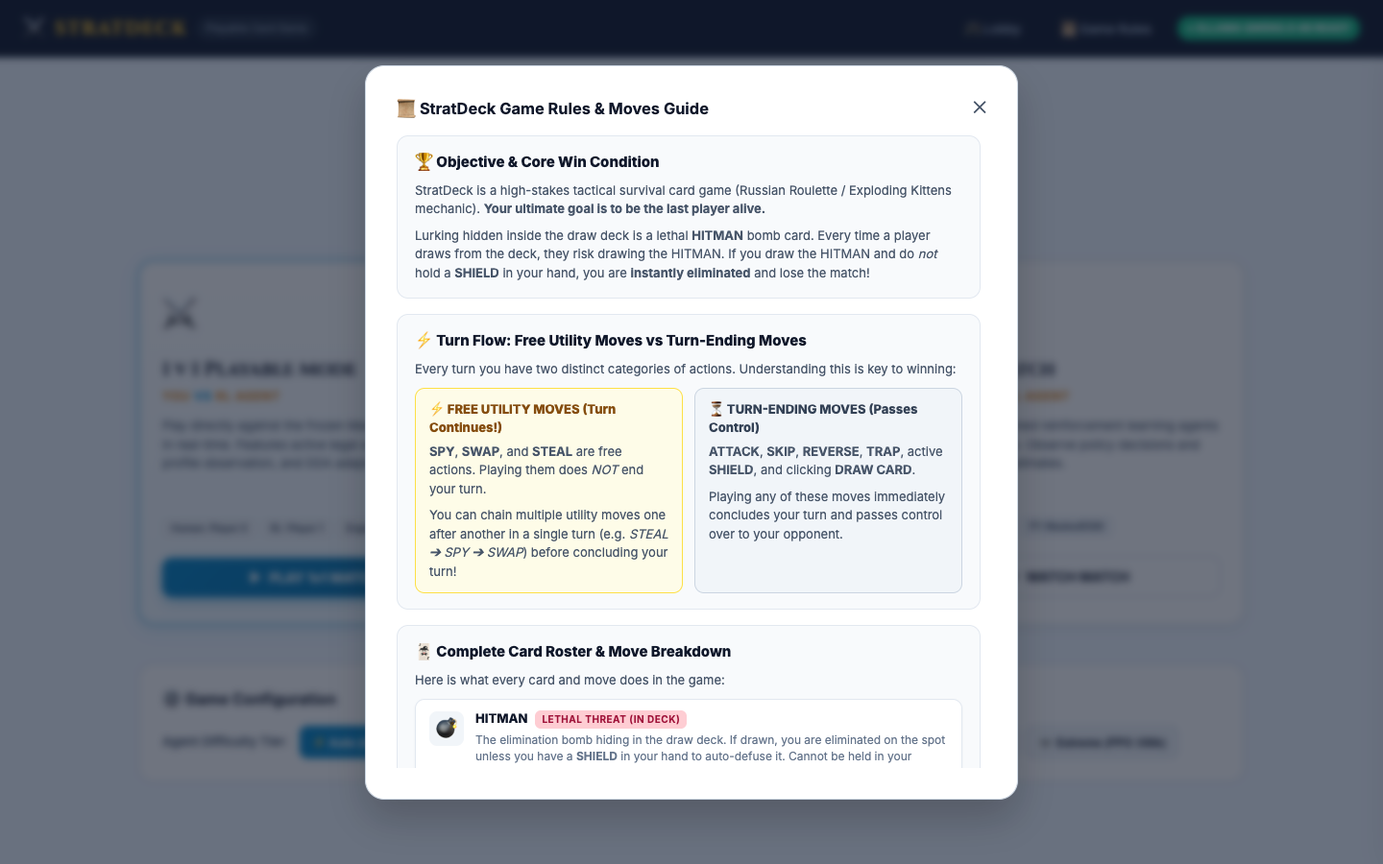
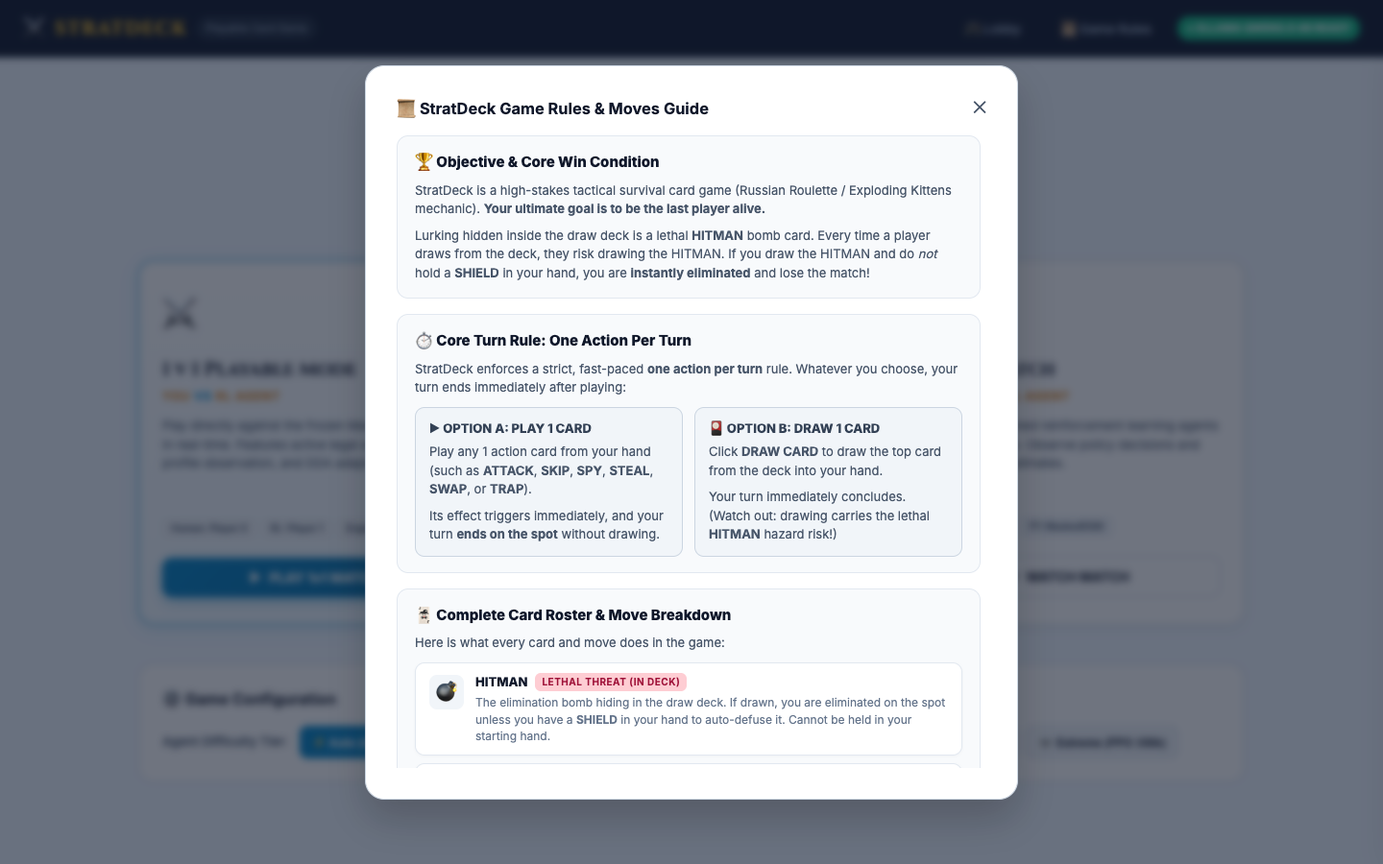
refactor(ui): enforce strict one-card-per-turn rule and remove multi-move utility labels

Changed region(s): [[0.2812, 0.3733, 0.6875, 0.9022]]

diff --git a/ui/static/app.js b/ui/static/app.js
@@ -14,7 +14,7 @@ const CARD_INFO = {
     "SHIELD":  { icon: "🛡", type: "Defensive",   desc: "Auto-defuse: Protects against drawing a lethal HITMAN card" },
     "SKIP":    { icon: "⏭", type: "Tactical",    desc: "Pass turn immediately to next player without drawing" },
     "REVERSE": { icon: "🔄", type: "Tactical",    desc: "Reverse turn direction (acts as Skip in 2-player match)" },
-    "SPY":     { icon: "👁", type: "Information", desc: "Peek top 3 deck cards without ending your turn" },
+    "SPY":     { icon: "👁", type: "Information", desc: "Peek top 3 deck cards to inspect upcoming danger" },
     "SWAP":    { icon: "🔀", type: "Disruptive",  desc: "Swap a random card from your hand with opponent" },
     "TRAP":    { icon: "🪤", type: "Disruptive",  desc: "Set forced double draw on opponent on next draw" },
     "STEAL":   { icon: "💰", type: "Disruptive",  desc: "Steal 1 random card directly from opponent's hand" },
@@ -30,13 +30,13 @@ const TUTORIAL_STEPS = [
         badge: "Step 1 of 4: Survival Objective",
         title: "🎯 Objective: Outsurvive the Lethal HITMAN",
         text: "StratDeck is a survival card game modeled after Russian Roulette and Exploding Kittens. In the deck is 1 lethal <strong>HITMAN</strong> card. If you draw it without holding a <strong>SHIELD</strong>, you lose! You start with 1 SHIELD and 4 random cards. Every turn ends with a draw unless you play an action card.",
-        hint: "💡 <strong>Coach Recommendation:</strong> You have the first turn! Try playing a Utility card like <strong>SPY</strong>, or click <strong>DRAW CARD</strong> to end your turn."
+        hint: "💡 <strong>Coach Recommendation:</strong> You have the first turn! Choose 1 card to play, or click <strong>DRAW CARD</strong> to conclude your turn."
     },
     {
-        badge: "Step 2 of 4: Multi-Action Combos",
-        title: "⚡ Utility Cards Do NOT End Your Turn",
-        text: "Cards like <strong>SPY</strong>, <strong>SWAP</strong>, and <strong>STEAL</strong> are Utility cards. When you play them, your turn continues! You can chain multiple utility moves (e.g. peek with SPY, then steal with STEAL) before finally drawing or attacking.",
-        hint: "💡 <strong>Coach Recommendation:</strong> Both you and the AI have this multi-move superpower! Use it to gather intel and disrupt the opponent before drawing."
+        badge: "Step 2 of 4: Turn Rule",
+        title: "⏱ Strict Turn Rule: One Action Per Turn",
+        text: "On your turn, you take exactly <strong>ONE action</strong>: either play 1 card from your hand, OR draw 1 card from the deck. Whatever you choose, your turn immediately ends and passes to the opponent.",
+        hint: "💡 <strong>Coach Recommendation:</strong> Choose your single card wisely each turn to maintain hand advantage and avoid hazards!"
     },
     {
         badge: "Step 3 of 4: Offense & Turn Flow",
@@ -79,19 +79,19 @@ const TUTORIAL_CARD_EXPLANATIONS = {
         hint: "💡 <strong>Coach Strategy:</strong> Acts as an extra SKIP card in 1v1 matches."
     },
     "SPY": {
-        title: "👁 SPY — Information Utility (Turn Continues!)",
-        text: "Peeks at the top 3 cards of the draw deck in exact order. <strong>Crucial:</strong> SPY is a Utility card and does NOT end your turn! You can play another card right after.",
-        hint: "💡 <strong>Coach Strategy:</strong> Always play SPY first to see if a HITMAN is on top before you decide whether to DRAW or ATTACK!"
+        title: "👁 SPY — Tactical Information",
+        text: "Peeks at the top 3 cards of the draw deck in exact sequential order. Gives you certainty on whether the HITMAN is approaching, then ends your turn without drawing.",
+        hint: "💡 <strong>Coach Strategy:</strong> Play SPY to detect upcoming hazard cards before your opponent draws."
     },
     "SWAP": {
-        title: "🔀 SWAP — Disruptive Card Exchange (Turn Continues!)",
-        text: "Exchanges a random card from your hand with a random card from the opponent. <strong>Crucial:</strong> SWAP is a Utility card and does NOT end your turn!",
-        hint: "💡 <strong>Coach Strategy:</strong> Use SWAP to disrupt opponent strategy or fish for a SHIELD from their hand."
+        title: "🔀 SWAP — Disruptive Card Exchange",
+        text: "Exchanges a random card from your hand with a random card from the opponent, then ends your turn without drawing.",
+        hint: "💡 <strong>Coach Strategy:</strong> Use SWAP to disrupt opponent strategy or attempt to retrieve a SHIELD."
     },
     "STEAL": {
-        title: "💰 STEAL — Direct Hand Theft (Turn Continues!)",
-        text: "Steals 1 random card directly out of the opponent's hand and adds it to yours! <strong>Crucial:</strong> STEAL is a Utility card and does NOT end your turn.",
-        hint: "💡 <strong>Coach Strategy:</strong> Reduces opponent options while increasing yours. Great when opponent has few cards."
+        title: "💰 STEAL — Direct Hand Theft",
+        text: "Steals 1 random card directly out of the opponent's hand and adds it to yours, then ends your turn without drawing.",
+        hint: "💡 <strong>Coach Strategy:</strong> Reduces opponent options while expanding yours. Excellent when opponent hoards cards."
     },
     "TRAP": {
         title: "🪤 TRAP — Forced Double-Draw Hazard",
@@ -644,16 +644,12 @@ function renderGameState(state) {
             bannerText.innerText = state.winner === 0 ? "GAME ENDED — YOU WIN! 🏆" : "GAME ENDED — RL AGENT WON 💀";
         } else if (isHumanTurn) {
             banner.className = "turn-banner your-turn";
-            const hasUtil = (state.human_hand || []).some(c => c === "SPY" || c === "SWAP" || c === "STEAL");
-            const utilHint = hasUtil ? '<span style="color: #92400e; font-weight: 700; margin-left: 6px;">[⚡ You have FREE Utility moves!]</span>' : '';
-            if (seqList.length > 1) {
-                bannerText.innerHTML = `YOUR TURN <span class="ai-last-tag">(RL Agent completed ${seqList.length} moves)</span> ${utilHint}`;
-            } else if (latestAI) {
+            if (latestAI) {
                 const aiName = latestAI.action;
                 const info = CARD_INFO[aiName] || { icon: "🤖" };
-                bannerText.innerHTML = `YOUR TURN <span class="ai-last-tag">(RL Agent played ${info.icon} ${aiName})</span> ${utilHint}`;
+                bannerText.innerHTML = `YOUR TURN <span class="ai-last-tag">(RL Agent played ${info.icon} ${aiName})</span> — Choose 1 card or DRAW`;
             } else {
-                bannerText.innerHTML = `YOUR TURN ${utilHint || '— Play a card or click DRAW CARD to end turn'}`;
+                bannerText.innerHTML = `YOUR TURN — Play 1 card or click DRAW CARD to end turn`;
             }
         } else {
             banner.className = "turn-banner ai-turn";
@@ -661,8 +657,9 @@ function renderGameState(state) {
         }
     }
 
-    // 3. MULTI-ACTION ROUND SEQUENCE TRAY
-    renderAIActionSequenceTray(seqList);
+    // 3. MULTI-ACTION ROUND SEQUENCE TRAY (HIDDEN FOR STRICT 1-ACTION-PER-TURN)
+    const seqTray = document.getElementById("aiActionSequenceTray");
+    if (seqTray) seqTray.style.display = "none";
 
     // 4. AI HERO PLAYED CARD SLOT (CENTER BOARD WITH CARD DROP ANIMATION)
     const heroCard = document.getElementById("aiPlayedHeroCard");
@@ -905,7 +902,6 @@ function renderHumanHand(state) {
         const isLegal = mask[cardActionIdx] === 1 || mask[cardActionIdx] === true;
         const info = CARD_INFO[cardName] || { icon: "🃏", type: "Action", desc: cardName };
 
-        const isUtility = (cardName === "SPY" || cardName === "SWAP" || cardName === "STEAL");
         let tagText, tagClass;
         if (isWatch) {
             tagText = '👁 In Hand';
@@ -913,19 +909,16 @@ function renderHumanHand(state) {
         } else if (!isLegal) {
             tagText = '✕ Masked';
             tagClass = 'masked-tag';
-        } else if (isUtility) {
-            tagText = '⚡ FREE MOVE (Turn Continues)';
-            tagClass = 'utility-tag';
         } else {
-            tagText = '⏳ ENDS TURN';
-            tagClass = 'ends-turn-tag';
+            tagText = '▶ PLAY CARD';
+            tagClass = 'legal-tag';
         }
 
         const cardEl = document.createElement("div");
         if (isWatch) {
             cardEl.className = `playing-card card-${cardName} spectator-card`;
         } else {
-            cardEl.className = `playing-card card-${cardName} ${isLegal ? 'legal' : 'masked'} ${isUtility ? 'utility-card-border' : ''}`;
+            cardEl.className = `playing-card card-${cardName} ${isLegal ? 'legal' : 'masked'}`;
         }
 
         cardEl.innerHTML = `

diff --git a/index.html b/index.html
@@ -195,17 +195,6 @@
                     <span id="oppPlayedText" class="opp-banner-text">Match started. You have the first turn! Choose a card from your hand.</span>
                 </div>
 
-                <!-- MULTI-ACTION ROUND SEQUENCE TRAY -->
-                <div id="aiActionSequenceTray" class="ai-sequence-tray hidden">
-                    <div class="sequence-tray-header">
-                        <span class="tray-icon">🤖</span>
-                        <span class="tray-title">RL AGENT MOVE SEQUENCE THIS ROUND</span>
-                    </div>
-                    <div id="aiActionSequenceCards" class="sequence-cards-grid">
-                        <!-- Dynamic cards dropped in order with Step 1, Step 2, Step 3 badges -->
-                    </div>
-                </div>
-
                 <!-- CENTER MAT: DECK, AI HERO PLAYED CARD, DISCARD -->
                 <div class="center-table-mat">
 
@@ -625,18 +614,18 @@
 
                     <!-- SECTION 2: TURN MECHANICS -->
                     <div class="rules-section-box">
-                        <h4>⚡ Turn Flow: Free Utility Moves vs Turn-Ending Moves</h4>
-                        <p>Every turn you have two distinct categories of actions. Understanding this is key to winning:</p>
+                        <h4>⏱ Core Turn Rule: One Action Per Turn</h4>
+                        <p>StratDeck enforces a strict, fast-paced <strong>one action per turn</strong> rule. Whatever you choose, your turn ends immediately after playing:</p>
                         <div class="rules-turn-types-grid">
-                            <div class="rules-type-pill-box free-type">
-                                <div class="rules-type-title">⚡ FREE UTILITY MOVES (Turn Continues!)</div>
-                                <p><strong>SPY</strong>, <strong>SWAP</strong>, and <strong>STEAL</strong> are free actions. Playing them does <em>NOT</em> end your turn.</p>
-                                <p>You can chain multiple utility moves one after another in a single turn (e.g. <em>STEAL ➔ SPY ➔ SWAP</em>) before concluding your turn!</p>
+                            <div class="rules-type-pill-box ends-type">
+                                <div class="rules-type-title">▶ OPTION A: PLAY 1 CARD</div>
+                                <p>Play any 1 action card from your hand (such as <strong>ATTACK</strong>, <strong>SKIP</strong>, <strong>SPY</strong>, <strong>STEAL</strong>, <strong>SWAP</strong>, or <strong>TRAP</strong>).</p>
+                                <p>Its effect triggers immediately, and your turn <strong>ends on the spot</strong> without drawing.</p>
                             </div>
                             <div class="rules-type-pill-box ends-type">
-                                <div class="rules-type-title">⏳ TURN-ENDING MOVES (Passes Control)</div>
-                                <p><strong>ATTACK</strong>, <strong>SKIP</strong>, <strong>REVERSE</strong>, <strong>TRAP</strong>, active <strong>SHIELD</strong>, and clicking <strong>DRAW CARD</strong>.</p>
-                                <p>Playing any of these moves immediately concludes your turn and passes control over to your opponent.</p>
+                                <div class="rules-type-title">🎴 OPTION B: DRAW 1 CARD</div>
+                                <p>Click <strong>DRAW CARD</strong> to draw the top card from the deck into your hand.</p>
+                                <p>Your turn immediately concludes. (Watch out: drawing carries the lethal <strong>HITMAN</strong> hazard risk!)</p>
                             </div>
                         </div>
                     </div>
@@ -724,9 +713,9 @@
                                 <div class="rules-card-info">
                                     <div class="rules-card-header">
                                         <span class="rules-card-name">SPY</span>
-                                        <span class="rules-tag util">⚡ Free Move (Turn Continues)</span>
+                                        <span class="rules-tag info-tag">Tactical • Information</span>
                                     </div>
-                                    <div class="rules-card-desc">Peeks at the top 3 cards of the draw deck in exact sequential order. Your turn continues! Gives you 100% certainty on whether it is safe to draw or necessary to attack/skip.</div>
+                                    <div class="rules-card-desc">Peeks at the top 3 cards of the draw deck in exact sequential order, then ends your turn without drawing. Gives you certainty on whether the HITMAN is lurking near the top.</div>
                                 </div>
                             </div>
 
@@ -736,9 +725,9 @@
                                 <div class="rules-card-info">
                                     <div class="rules-card-header">
                                         <span class="rules-card-name">STEAL</span>
-                                        <span class="rules-tag util">⚡ Free Move (Turn Continues)</span>
+                                        <span class="rules-tag info-tag">Tactical • Resource Theft</span>
                                     </div>
-                                    <div class="rules-card-desc">Steals 1 random card directly from your opponent's hand into yours. Your turn continues! Deprives the opponent of their shields and offensive cards while expanding your hand.</div>
+                                    <div class="rules-card-desc">Steals 1 random card directly from your opponent's hand into yours, then ends your turn without drawing. Deprives the opponent of their shields while expanding your hand.</div>
                                 </div>
                             </div>
 
@@ -748,9 +737,9 @@
                                 <div class="rules-card-info">
                                     <div class="rules-card-header">
                                         <span class="rules-card-name">SWAP</span>
-                                        <span class="rules-tag util">⚡ Free Move (Turn Continues)</span>
+                                        <span class="rules-tag info-tag">Tactical • Exchange</span>
                                     </div>
-                                    <div class="rules-card-desc">Trades 1 random card from your hand with 1 random card from your opponent's hand. Your turn continues! Great for dumping low-priority cards in search of shields or attacks.</div>
+                                    <div class="rules-card-desc">Trades 1 random card from your hand with 1 random card from your opponent's hand, then ends your turn without drawing. Great for disrupting the opponent's strategy.</div>
                                 </div>
                             </div>
 

diff --git a/ui/templates/index.html b/ui/templates/index.html
@@ -195,17 +195,6 @@
                     <span id="oppPlayedText" class="opp-banner-text">Match started. You have the first turn! Choose a card from your hand.</span>
                 </div>
 
-                <!-- MULTI-ACTION ROUND SEQUENCE TRAY -->
-                <div id="aiActionSequenceTray" class="ai-sequence-tray hidden">
-                    <div class="sequence-tray-header">
-                        <span class="tray-icon">🤖</span>
-                        <span class="tray-title">RL AGENT MOVE SEQUENCE THIS ROUND</span>
-                    </div>
-                    <div id="aiActionSequenceCards" class="sequence-cards-grid">
-                        <!-- Dynamic cards dropped in order with Step 1, Step 2, Step 3 badges -->
-                    </div>
-                </div>
-
                 <!-- CENTER MAT: DECK, AI HERO PLAYED CARD, DISCARD -->
                 <div class="center-table-mat">
 
@@ -625,18 +614,18 @@
 
                     <!-- SECTION 2: TURN MECHANICS -->
                     <div class="rules-section-box">
-                        <h4>⚡ Turn Flow: Free Utility Moves vs Turn-Ending Moves</h4>
-                        <p>Every turn you have two distinct categories of actions. Understanding this is key to winning:</p>
+                        <h4>⏱ Core Turn Rule: One Action Per Turn</h4>
+                        <p>StratDeck enforces a strict, fast-paced <strong>one action per turn</strong> rule. Whatever you choose, your turn ends immediately after playing:</p>
                         <div class="rules-turn-types-grid">
-                            <div class="rules-type-pill-box free-type">
-                                <div class="rules-type-title">⚡ FREE UTILITY MOVES (Turn Continues!)</div>
-                                <p><strong>SPY</strong>, <strong>SWAP</strong>, and <strong>STEAL</strong> are free actions. Playing them does <em>NOT</em> end your turn.</p>
-                                <p>You can chain multiple utility moves one after another in a single turn (e.g. <em>STEAL ➔ SPY ➔ SWAP</em>) before concluding your turn!</p>
+                            <div class="rules-type-pill-box ends-type">
+                                <div class="rules-type-title">▶ OPTION A: PLAY 1 CARD</div>
+                                <p>Play any 1 action card from your hand (such as <strong>ATTACK</strong>, <strong>SKIP</strong>, <strong>SPY</strong>, <strong>STEAL</strong>, <strong>SWAP</strong>, or <strong>TRAP</strong>).</p>
+                                <p>Its effect triggers immediately, and your turn <strong>ends on the spot</strong> without drawing.</p>
                             </div>
                             <div class="rules-type-pill-box ends-type">
-                                <div class="rules-type-title">⏳ TURN-ENDING MOVES (Passes Control)</div>
-                                <p><strong>ATTACK</strong>, <strong>SKIP</strong>, <strong>REVERSE</strong>, <strong>TRAP</strong>, active <strong>SHIELD</strong>, and clicking <strong>DRAW CARD</strong>.</p>
-                                <p>Playing any of these moves immediately concludes your turn and passes control over to your opponent.</p>
+                                <div class="rules-type-title">🎴 OPTION B: DRAW 1 CARD</div>
+                                <p>Click <strong>DRAW CARD</strong> to draw the top card from the deck into your hand.</p>
+                                <p>Your turn immediately concludes. (Watch out: drawing carries the lethal <strong>HITMAN</strong> hazard risk!)</p>
                             </div>
                         </div>
                     </div>
@@ -724,9 +713,9 @@
                                 <div class="rules-card-info">
                                     <div class="rules-card-header">
                                         <span class="rules-card-name">SPY</span>
-                                        <span class="rules-tag util">⚡ Free Move (Turn Continues)</span>
+                                        <span class="rules-tag info-tag">Tactical • Information</span>
                                     </div>
-                                    <div class="rules-card-desc">Peeks at the top 3 cards of the draw deck in exact sequential order. Your turn continues! Gives you 100% certainty on whether it is safe to draw or necessary to attack/skip.</div>
+                                    <div class="rules-card-desc">Peeks at the top 3 cards of the draw deck in exact sequential order, then ends your turn without drawing. Gives you certainty on whether the HITMAN is lurking near the top.</div>
                                 </div>
                             </div>
 
@@ -736,9 +725,9 @@
                                 <div class="rules-card-info">
                                     <div class="rules-card-header">
                                         <span class="rules-card-name">STEAL</span>
-                                        <span class="rules-tag util">⚡ Free Move (Turn Continues)</span>
+                                        <span class="rules-tag info-tag">Tactical • Resource Theft</span>
                                     </div>
-                                    <div class="rules-card-desc">Steals 1 random card directly from your opponent's hand into yours. Your turn continues! Deprives the opponent of their shields and offensive cards while expanding your hand.</div>
+                                    <div class="rules-card-desc">Steals 1 random card directly from your opponent's hand into yours, then ends your turn without drawing. Deprives the opponent of their shields while expanding your hand.</div>
                                 </div>
                             </div>
 
@@ -748,9 +737,9 @@
                                 <div class="rules-card-info">
                                     <div class="rules-card-header">
                                         <span class="rules-card-name">SWAP</span>
-                                        <span class="rules-tag util">⚡ Free Move (Turn Continues)</span>
+                                        <span class="rules-tag info-tag">Tactical • Exchange</span>
                                     </div>
-                                    <div class="rules-card-desc">Trades 1 random card from your hand with 1 random card from your opponent's hand. Your turn continues! Great for dumping low-priority cards in search of shields or attacks.</div>
+                                    <div class="rules-card-desc">Trades 1 random card from your hand with 1 random card from your opponent's hand, then ends your turn without drawing. Great for disrupting the opponent's strategy.</div>
                                 </div>
                             </div>
 

diff --git a/ui/static/client_engine.js b/ui/static/client_engine.js
@@ -393,7 +393,7 @@
                         }
                     }
                     info.spy_peek = peeks;
-                    // Does not end turn!
+                    this.advanceTurn();
                 } else if (action === Card.SWAP) {
                     const targetId = this.getNextAlivePlayer(this.currentPlayer);
                     const target = this.players[targetId];
@@ -410,7 +410,7 @@
                         info.swap_given = given;
                         info.swap_taken = taken;
                     }
-                    // Does not end turn!
+                    this.advanceTurn();
                 } else if (action === Card.TRAP) {
                     this.pendingDrawCount = 2;
                     this.advanceTurn();
@@ -423,7 +423,7 @@
                         p.hand.push(stolen);
                         info.stolen_card = stolen;
                     }
-                    // Does not end turn!
+                    this.advanceTurn();
                 } else {
                     this.advanceTurn();
                 }
@@ -624,10 +624,7 @@
 
             const chosenAct = pred.action;
             const chosenName = actionToName(chosenAct);
-            const isUtil = ["SPY", "SWAP", "STEAL"].includes(chosenName);
-            const note = isUtil ? " (Utility - Turn Continues)" : "";
-
-            sess.action_log.push(`Turn ${engine.turnIndex}: RL Agent played ${chosenName}${note}`);
+            sess.action_log.push(`Turn ${engine.turnIndex}: RL Agent played ${chosenName}`);
 
             const topLegal = [];
             for (let i = 0; i < 10; i++) {
@@ -760,9 +757,7 @@
             }
 
             const actName = actionToName(actIdx);
-            const isUtil = ["SPY", "SWAP", "STEAL"].includes(actName);
-            const note = isUtil ? " (Utility - Turn Continues)" : "";
-            activeSession.action_log.push(`Turn ${engine.turnIndex}: You played ${actName}${note}`);
+            activeSession.action_log.push(`Turn ${engine.turnIndex}: You played ${actName}`);
             activeSession.last_events = [];
 
             const stepRes = engine.step(actIdx);

diff --git a/ui/app.py b/ui/app.py
@@ -227,9 +227,7 @@ def create_ai_policy_wrapper(sess, controller):
         sess["last_ai_explanation"] = None  # Reset explanation for new action
 
         ai_action_name = action_to_name(ai_act_int)
-        is_ai_util = ai_action_name in ["SPY", "SWAP", "STEAL"]
-        ai_note = " (Utility - Turn Continues)" if is_ai_util else ""
-        sess["action_log"].append(f"Turn {env.engine.turn_index}: RL Agent played {ai_action_name}{ai_note}")
+        sess["action_log"].append(f"Turn {env.engine.turn_index}: RL Agent played {ai_action_name}")
 
         # Accumulate multi-action turn sequence for visual card drop in UI
         sess.setdefault("recent_ai_actions", []).append({
@@ -239,7 +237,7 @@ def create_ai_policy_wrapper(sess, controller):
             "top_legal_actions": ai_evidence["policy_evidence"]["top_legal_actions"],
             "value_estimate": float(ai_evidence["policy_evidence"]["value_estimate_V_s"]),
             "turn_index": int(env.engine.turn_index),
-            "is_utility": is_ai_util
+            "is_utility": False
         })
 
         return chosen_card
@@ -388,10 +386,7 @@ def watch_step():
     sess["last_ai_explanation"] = None
 
     action_name = action_to_name(chosen_action_idx)
-    is_util = action_name in ["SPY", "SWAP", "STEAL"]
-    note = " (Utility - Turn Continues)" if is_util else ""
-
-    sess["action_log"].append(f"Turn {engine.turn_index}: {actor_label} played {action_name}{note}")
+    sess["action_log"].append(f"Turn {engine.turn_index}: {actor_label} played {action_name}")
 
     sess["recent_ai_actions"] = [{
         "actor_id": actor_id,
@@ -486,9 +481,7 @@ def submit_human_action():
         return jsonify({"error": f"Action index {action_idx} is currently masked/illegal for Human player."}), 400
 
     human_action_name = action_to_name(action_idx)
-    is_util = human_action_name in ["SPY", "SWAP", "STEAL"]
-    note = " (Utility - Turn Continues)" if is_util else ""
-    sess["action_log"].append(f"Turn {env.engine.turn_index}: You played {human_action_name}{note}")
+    sess["action_log"].append(f"Turn {env.engine.turn_index}: You played {human_action_name}")
 
     # Reset per-round recent lists before executing
     sess["recent_ai_actions"] = []
